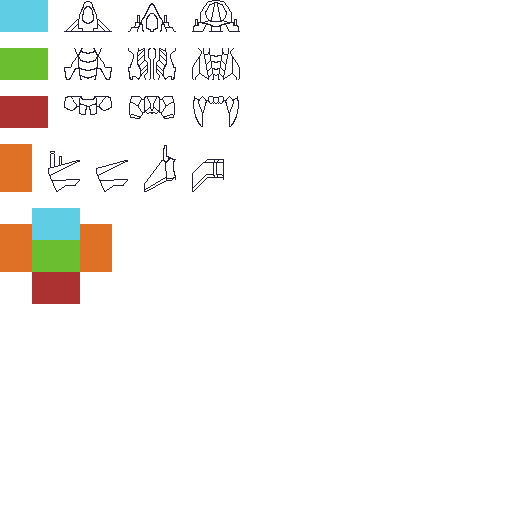
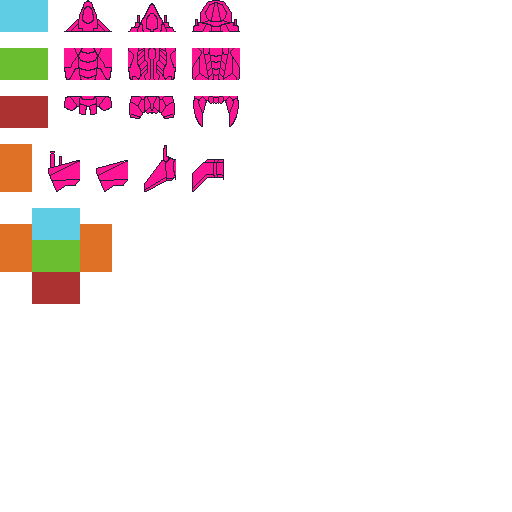
Spaceships are now randomized with random colours by replacing the pink colour values of the parts

diff --git a/Source/main.py b/Source/main.py
@@ -34,27 +34,24 @@ def generateSpaceShipImage():
     wingSection = square * 9
 
     shipPartsImg = Image.open("ShipParts/ShipParts.png")
-    # w0, h0 = shipPartsImg.size
 
     cockPitSize = (square * 3, square * 2)
     mainHaulSize = (square * 3, square * 2)
     thrusterSize = (square * 3, square * 2)
     wingSize = (square * 2, square * 3)
 
-    pointerPos = (cockPitSize[0] + square) * random.randint(1,3)
-
-
+    pointerPos = (cockPitSize[0] + square) * random.randint(1, 3)
     # Areas to crop at -- NEEDS TO BE RANDOM! --
     newCockpit = shipPartsImg.crop((pointerPos, cockPitSection, pointerPos + cockPitSize[0], cockPitSection + cockPitSize[1]))
 
     random.seed()
-    pointerPos = (cockPitSize[0] + square) * random.randint(1,3)
+    pointerPos = (cockPitSize[0] + square) * random.randint(1, 3)
     newMainHull = shipPartsImg.crop((pointerPos, mainHaulSection, pointerPos + mainHaulSize[0], mainHaulSection + mainHaulSize[1]))
     random.seed()
-    pointerPos = (cockPitSize[0] + square) * random.randint(1,3)
+    pointerPos = (cockPitSize[0] + square) * random.randint(1, 3)
     newThruster = shipPartsImg.crop((pointerPos, thrusterSection, pointerPos + thrusterSize[0], thrusterSection + thrusterSize[1]))
     random.seed()
-    pointerPos = (wingSize[0] + square) * random.randint(1,4)
+    pointerPos = (wingSize[0] + square) * random.randint(1, 4)
     newWing1 = shipPartsImg.crop((pointerPos, wingSection, pointerPos + wingSize[0], wingSection + wingSize[1]))
     newWing2 = ImageOps.mirror(newWing1)
 
@@ -75,6 +72,22 @@ def generateSpaceShipImage():
 
     newShip = newShip.resize((224, 224), Image.NEAREST)
     newShip.save("ShipParts/out.png")
+
+
+    # CHANGE COLOUR
+    im = Image.open("ShipParts/out.png")
+    im = im.convert('RGBA')
+
+    data = np.array(im)  # "data" is a height x width x 4 numpy array
+    red, green, blue, alpha = data.T  # Temporarily unpack the bands for readability
+
+    # Replace white with red... (leaves alpha values alone...)
+    pink_areas = (red == 255) & (blue == 147) & (green == 20)
+    random.seed()
+    data[..., :-1][pink_areas.T] = (random.randint(0, 255), random.randint(0, 255), random.randint(0, 255))  # Transpose back needed
+
+    im2 = Image.fromarray(data)
+    im2.save("ShipParts/out.png")
 
 if __name__ == "__main__":
     if True:
